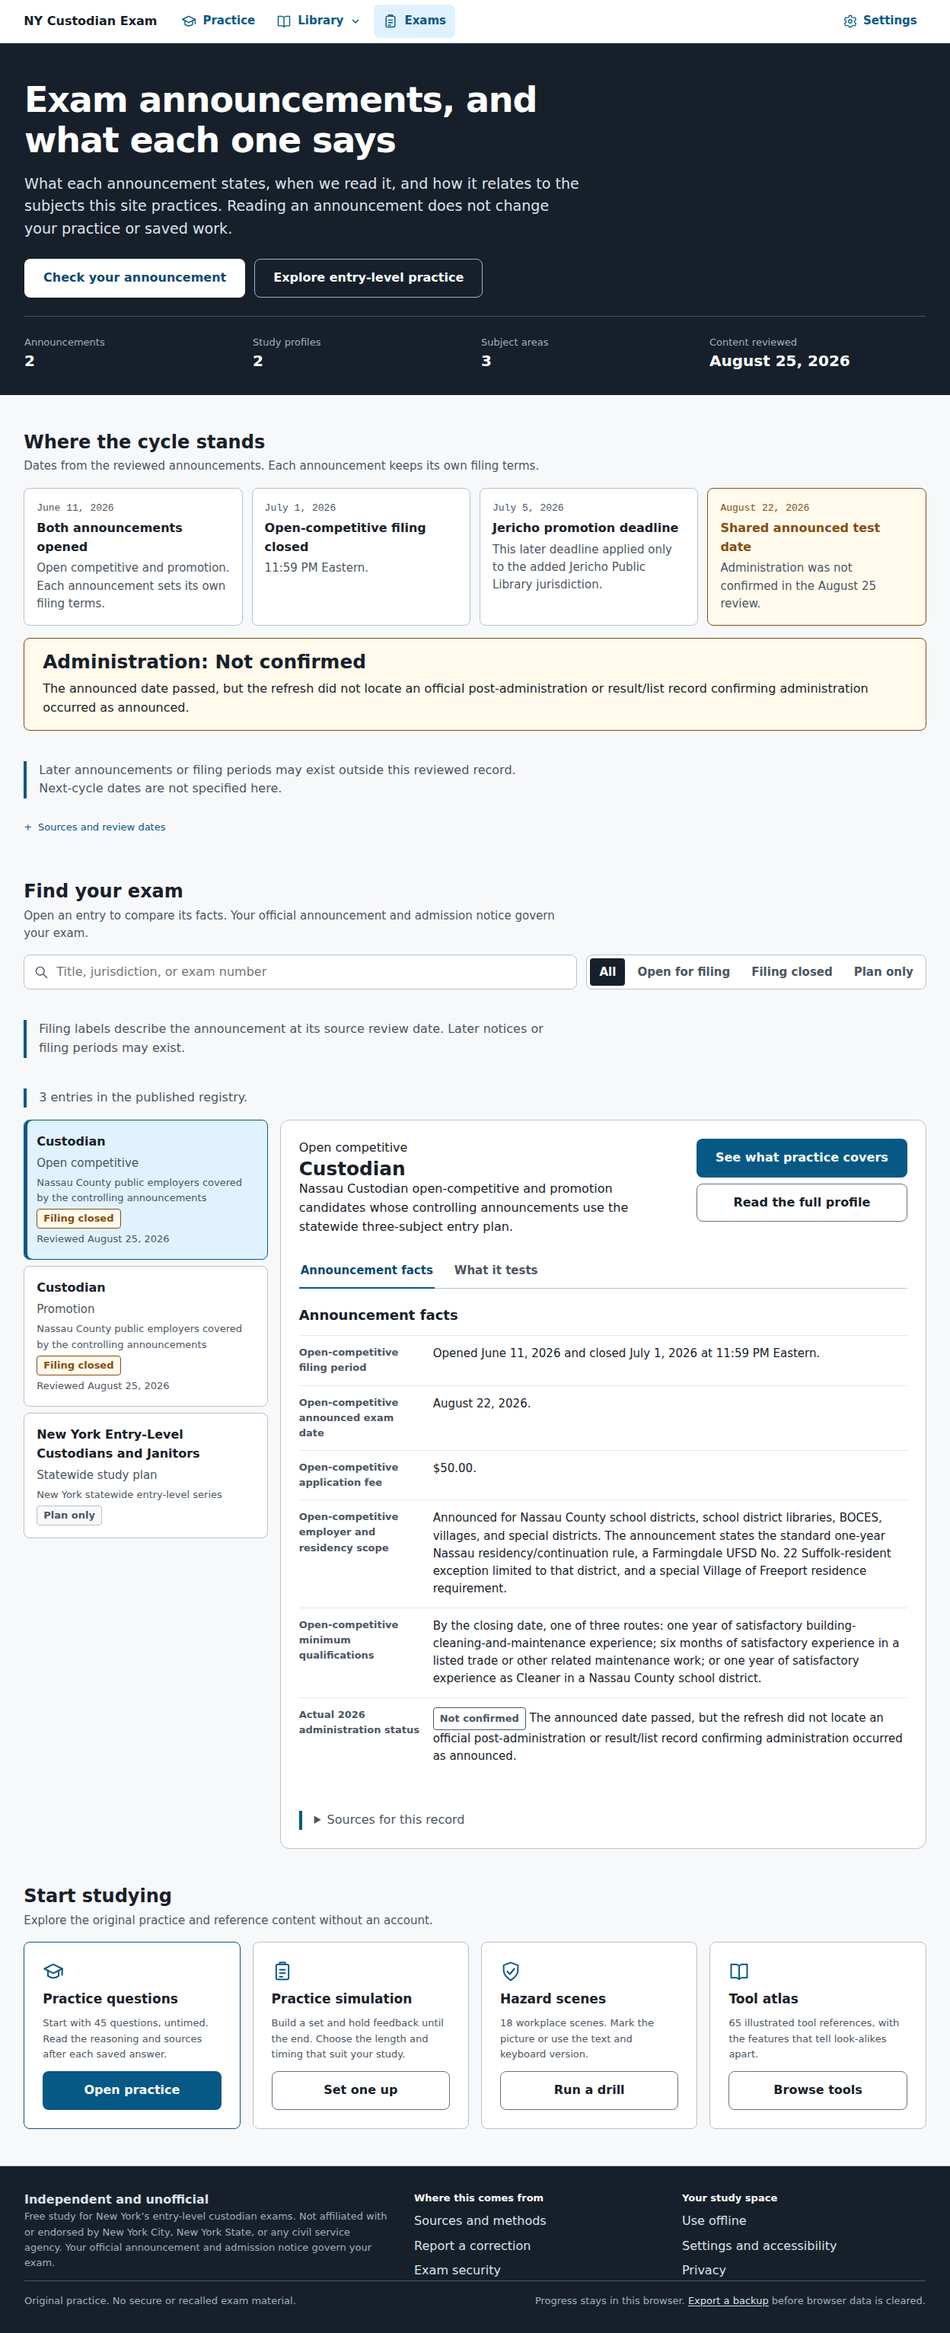
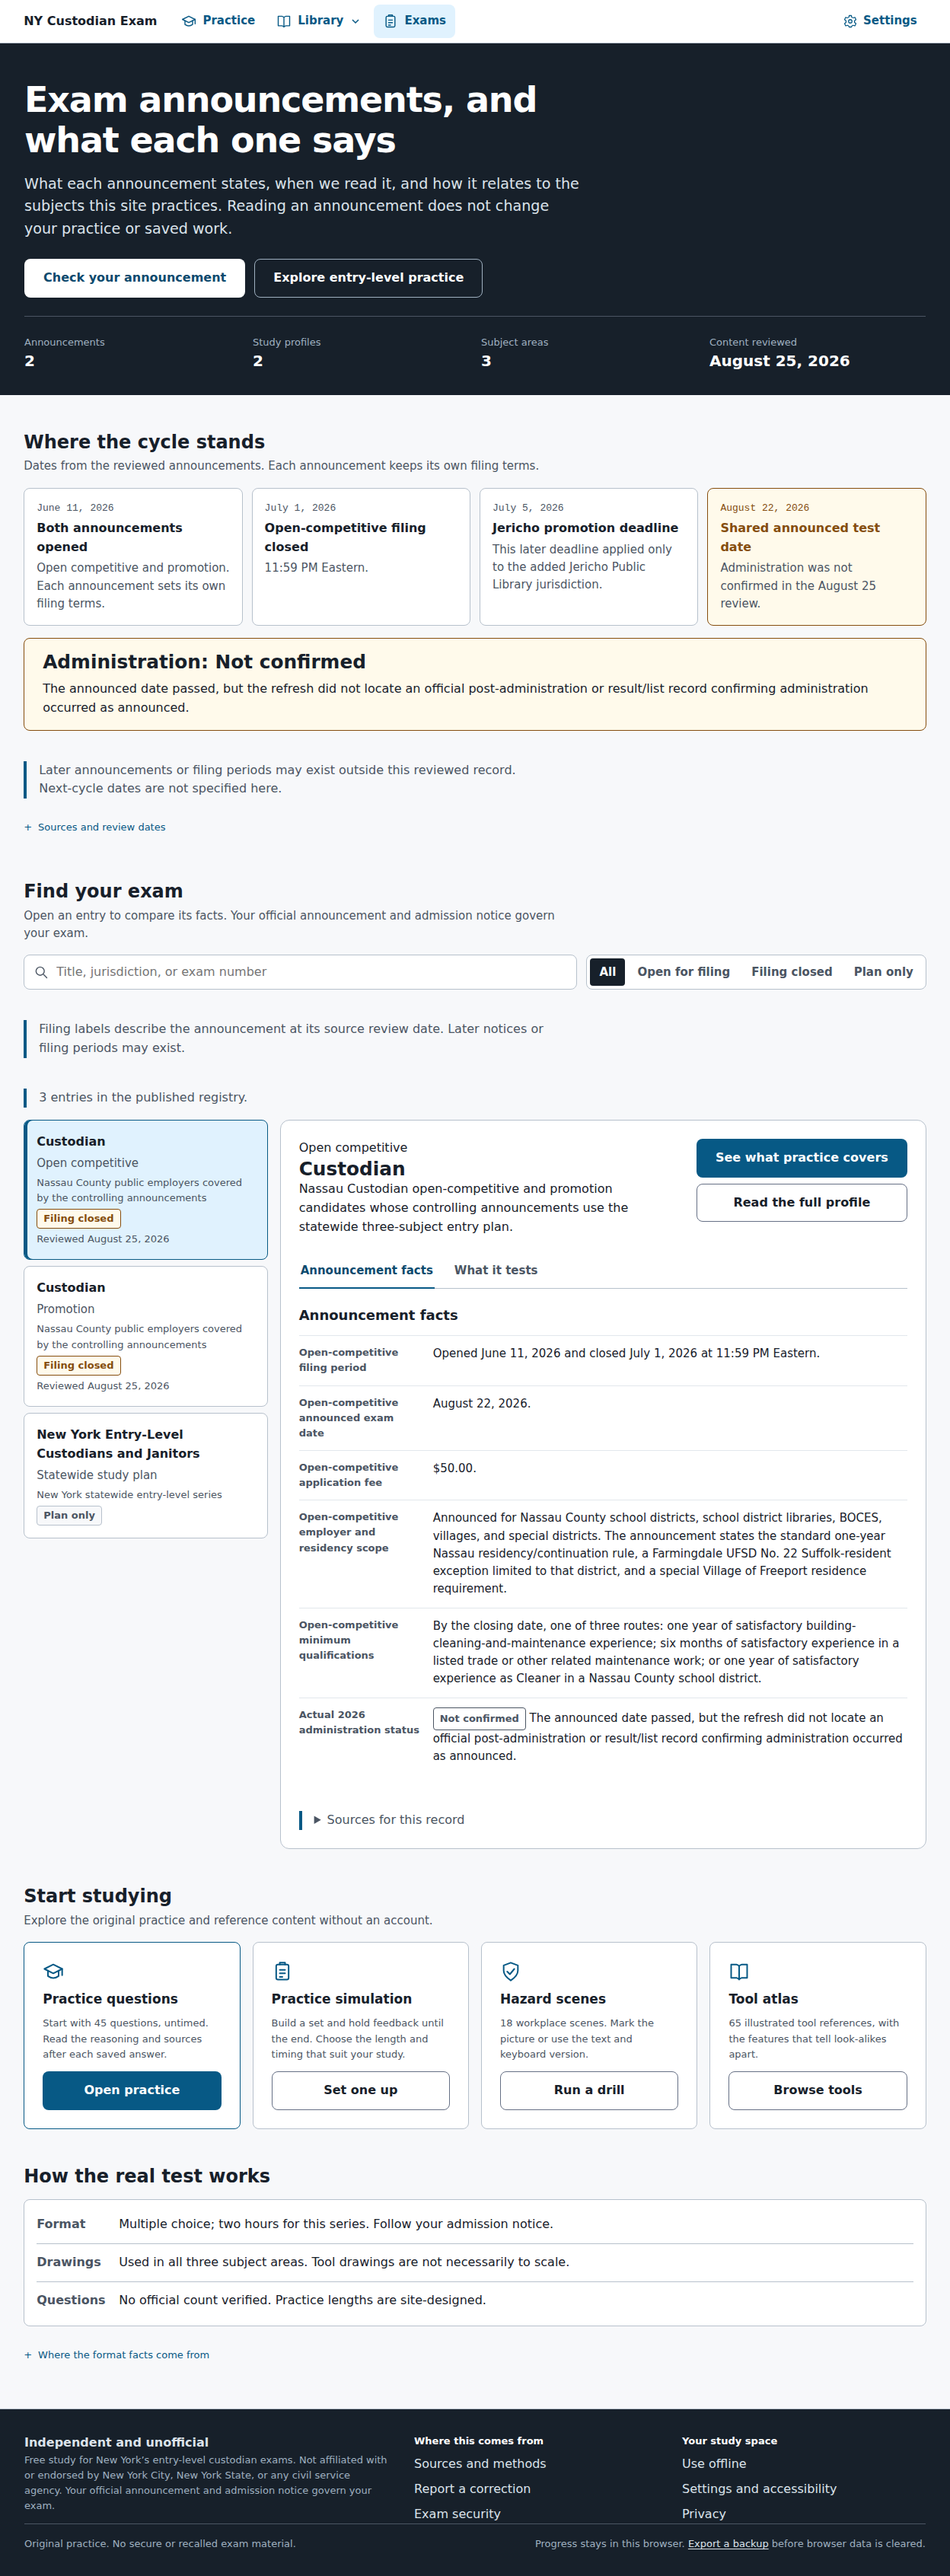
Add sourced exam format summary and tighten compact spacing

diff --git a/apps/site/scripts/generate-pages.tsx b/apps/site/scripts/generate-pages.tsx
@@ -1410,6 +1410,14 @@ const buildPages = ({
         </div><div class="empty-state" data-exam-empty hidden><h3 tabindex="-1">No entries match these filters</h3><p>Clear the filters to see every announcement and study plan in this published registry.</p><button class="button button-secondary" type="button" data-exam-clear>Clear filters</button></div>
       </section>
       <section class="home-section"><div class="section-header"><h2>Start studying</h2><p>Explore the original practice and reference content without an account.</p></div>${examTaskCards}</section>
+      <section class="home-section exam-format" aria-labelledby="exam-format-heading"><div class="section-header"><h2 id="exam-format-heading">How the real test works</h2></div>
+        <dl class="exam-format-facts">
+          <div><dt>Format</dt><dd>Multiple choice; two hours for this series. Follow your admission notice.</dd></div>
+          <div><dt>Drawings</dt><dd>Used in all three subject areas. Tool drawings are not necessarily to scale.</dd></div>
+          <div><dt>Questions</dt><dd>No official count verified. Practice lengths are site-designed.</dd></div>
+        </dl>
+        <details class="home-cycle-evidence"><summary>Where the format facts come from</summary><p>The state’s entry-level guide, Introduction (PDF page 2), describes the multiple-choice format, two-hour allowance, and drawings. Your announcement controls the exact subjects.</p>${sourceLinks(["nys.dcs.entry-level-guide"], sourceById)}<p>The reviewed evidence does not establish an official question count or subject weights.</p></details>
+      </section>
     </div>
   </main>
   <script type="module" src="/src/static-browser.ts"></script>`

diff --git a/apps/site/src/design-system.css b/apps/site/src/design-system.css
@@ -1107,3 +1107,22 @@
     .exams-page [data-exam-prompt] { display: none; }
   }
 }
+
+@layer overrides {
+  .exam-format-facts { margin: 0; padding: 0.5rem 1rem; border: var(--border-thin) solid var(--color-border); border-radius: var(--radius-md); background: var(--color-surface); }
+  .exam-format-facts > div { display: grid; grid-template-columns: 6rem minmax(0, 1fr); gap: 0.75rem; padding-block: 0.75rem; }
+  .exam-format-facts > div + div { border-block-start: var(--border-thin) solid var(--color-border); }
+  .exam-format-facts dt { font-weight: var(--weight-bold); color: var(--color-text-muted); }
+  .exam-format-facts dd { margin: 0; }
+  @media (max-width: 47.99rem) {
+    .exams-page .home-content { padding-block: 1.25rem; gap: 1.5rem; }
+    .exams-page #exams-board > .source-note { margin: 0; padding: 0; border: 0; font-size: 0.75rem; }
+    .exams-page .home-section .section-header > p { font-size: 0.8125rem; }
+    .exams-page .exam-format-facts { font-size: 0.8125rem; }
+    .exams-page .exam-format-facts dt { font-size: 0.75rem; }
+    [data-route-id="exam-selector"] .site-footer-columns { gap: 0.75rem; }
+    [data-route-id="exam-selector"] .site-footer-columns nav { display: flex; flex-wrap: wrap; gap: 0.375rem 1rem; font-size: 0.8125rem; }
+    [data-route-id="exam-selector"] .site-footer-columns nav > strong { display: none; }
+    [data-route-id="exam-selector"] .site-footer-meta { font-size: 0.75rem; }
+  }
+}

diff --git a/apps/site/browser-tests/design-handoff.pw.ts b/apps/site/browser-tests/design-handoff.pw.ts
@@ -297,6 +297,14 @@ test("every announcement fact keeps its exact source excerpt without JavaScript"
     const page = await context.newPage()
     await page.goto("/exams/")
     const facts = catalog.profiles.flatMap(profile => profile.announcementFactSheet?.facts ?? [])
+    const format = page.getByRole("region", { name: "How the real test works" })
+    await expect(format).toContainText("Follow your admission notice")
+    await expect(format).toContainText("No official count verified")
+    await format.getByText("Where the format facts come from", { exact: true }).click()
+    const source = format.getByRole("link", { name: "Test Guide for the Entry-Level Custodians and Janitors Series", exact: true })
+    await expect(source).toBeVisible()
+    const response = await page.request.get((await source.getAttribute("href"))!)
+    expect(response.ok()).toBe(true)
     const expectedSourceRows = catalog.profiles.reduce((total, profile) => total + profile.examIdentities.reduce((count, identity) => count + (profile.announcementFactSheet?.facts.filter(fact => fact.state !== "superseded" && fact.appliesToExamNumbers.includes(identity.examNumber)).length ?? 0), 0), 0)
     expect(expectedSourceRows).toBeGreaterThan(0)
     await expect(page.locator("[data-source-fact]")).toHaveCount(expectedSourceRows)

diff --git a/design-review/2026-09-07/IMPLEMENTATION-STATUS.md b/design-review/2026-09-07/IMPLEMENTATION-STATUS.md
@@ -14,7 +14,7 @@ The active task is the complete handoff in `/mnt/models/dev/nycustodianexam/IMPL
 | Hazard player | HAZARD-PLAYER-REVIEW.md: responsive workspace, header/save panel, nine real-state captures and nine regression tests | Visual/keyboard layout, integrated retained-image overlay, correction/safe groups and compact recovery captured; final cross-browser and matching-width visual audit remain |
 | Simulation player/results | SIMULATION-NAVIGATOR-REVIEW.md and SIMULATION-FLOW-REVIEW.md: navigator, player/timer and question-result captures at 1008/384; restore/focus checks; 24 three-browser regressions pass | Visual/keyboard hazard player/results now captured at both widths; no-concerns target corrected and six three-browser hazard regressions pass; final integrated audit and separate Static Assets check remain |
 | Print configuration | Ten products and effective controls; reviewed document scope | PRINT-OUTPUT-REVIEW.md: actual Letter/A4 question PDFs and searchable-text fix; preview rows/actions and warning/error panels reconciled; twelve ready/recovery captures and 27 three-browser print checks pass; fresh Letter/A4 PDFs retain searchable text; all 45 extended large-print/tool PDF pages audited and grid-fragmentation overlap fixed; current PDFs and per-page verification retained; 42 hazard worksheet/answer/text PDF pages audited with pagination fixes; large-print heading/URL sizing fixed with fresh PDF evidence; source-inclusive hazard estimates now finalize from assembled content; final other-product PDF refresh remains |
-| Exams / Settings / Offline / report | UTILITY-PAGES-REVIEW.md: first-visit desktop/compact captures, Settings action layout/Offline grouping and recovery checks | Delete preview cancellation/captures verified; returning saved-work counts and Offline installed summaries now use actual storage with empty/unavailable captures; export contents scope is disclosed; Exams header/compact cards and announcement-first ordering reconciled with six three-browser checks and refreshed overview/record captures; cycle responsive order/source disclosure reconciled with 17 generation tests and nine three-browser checks; source-bound filing classifications and combined URL-restored filters implemented with 22 unit and 12 three-browser checks; date milestones consolidated with bound-source metadata and matching compact rows; full-page audit captured; record-source consolidation, desktop filter alignment, and compact prompt removal verified with 60 browser checks and refreshed captures; compact page density, missing reference format section, and report comparison remain; coverage action and three-browser navigation checks pass; all record/tab states captured; actual Offline active/removal/unavailable states captured |
+| Exams / Settings / Offline / report | UTILITY-PAGES-REVIEW.md: first-visit desktop/compact captures, Settings action layout/Offline grouping and recovery checks | Delete preview cancellation/captures verified; returning saved-work counts and Offline installed summaries now use actual storage with empty/unavailable captures; export contents scope is disclosed; Exams header/compact cards and announcement-first ordering reconciled with six three-browser checks and refreshed overview/record captures; cycle responsive order/source disclosure reconciled with 17 generation tests and nine three-browser checks; source-bound filing classifications and combined URL-restored filters implemented with 22 unit and 12 three-browser checks; date milestones consolidated with bound-source metadata and matching compact rows; full-page audit captured; record-source consolidation, desktop filter alignment, and compact prompt removal verified with 60 browser checks and refreshed captures; sourced format section and compact spacing/footer added with three-browser source-navigation checks; compact card/control density and report comparison remain; coverage action and three-browser navigation checks pass; all record/tab states captured; actual Offline active/removal/unavailable states captured |
 | Final validation/publication | First-slice local commit; next slice in progress | Combined 102 core browser checks yielded 100 passes and two Offline reflow failures; scoped grid fix passes all nine targeted cross-browser checks. Remaining full-family checks, evidence index, clean local commits, reviewable publication; never merge/deploy automatically |
 
 Important discovered content difference: the original 90-question simulation metadata had 30 cleaning, 37 maintenance, 5 safety, and 18 mixed/scenario questions; pack v4 adds one illustrated maintenance item (91 total), not the prototype's 34/26/30. Preserve real classification and counts. Internal session/profile/version references remain required; global exam selection is removed.

diff --git a/design-review/2026-09-07/UTILITY-PAGES-REVIEW.md b/design-review/2026-09-07/UTILITY-PAGES-REVIEW.md
@@ -258,3 +258,41 @@ checks pass across Chromium, Firefox, and WebKit. New checks verify desktop
 control alignment, compact prompt suppression, expanded-source reflow, and
 nonzero exact fact-source row counts plus every referenced excerpt/locator
 without JavaScript. Capture scripts reported no page errors.
+
+## Exams format section and compact spacing — September 9
+
+Added “How the real test works” after the study destinations, with three rows
+for format, drawings, and unverified official question count. Unlike the
+prototype's unconditional paper-medium wording, the visible copy names the
+multiple-choice/two-hour series format and tells readers to follow their
+admission notice. The scale caveat is scoped to tool drawings. These choices
+follow docs/FACTBASE.md (Format & logistics) and docs/SCOPE.md (allowed format
+claims), not the prototype's fixture wording.
+
+The public [DCS entry-level guide](https://www.cs.ny.gov/testing/test_guides/Custodians_Janitors_EntryLevel_TestGuide.pdf),
+Introduction on PDF page 2, was inspected on September 9, 2026 to corroborate
+the maintained format/allowance/drawing facts. No sample artwork or question
+content was incorporated. The UI links the existing local source record through
+a native disclosure, including the page locator and announcement-scope caveat.
+The guide does not establish an official question count.
+
+Compact section gaps/padding now use 24px/20px; registry caveats use plain
+12px text instead of large bordered notes. The footer adopts the wrapped-link
+layout already used by Home/Practice/Review. Search, filing filters, counts,
+source review caveats, and all footer destinations remain available.
+
+Refreshed 22 overview captures, including new format-section crops at 1248/384.
+Visually inspected the final compact format crop and full page. The compact
+page is 3493px tall including the new section, versus 3505px before this change
+and 2255px in the reference. The reference omits the compact search/filter
+controls and full footer; record-card copy and metadata also remain denser.
+These remaining presentation differences need reconciliation; this is not a
+claim of complete visual fidelity. The format section is also available on
+desktop so its information is not viewport-dependent.
+
+Validation: full build/artifact verification and both typechecks pass. All 60
+design-handoff browser checks passed with the format section and footer; all
+18 Exams-focused checks passed again after final compact spacing/copy changes.
+The no-JavaScript check expands the format disclosure, verifies the admission
+notice/count caveats, and confirms its local source link resolves successfully.
+Capture scripts report no page errors.
